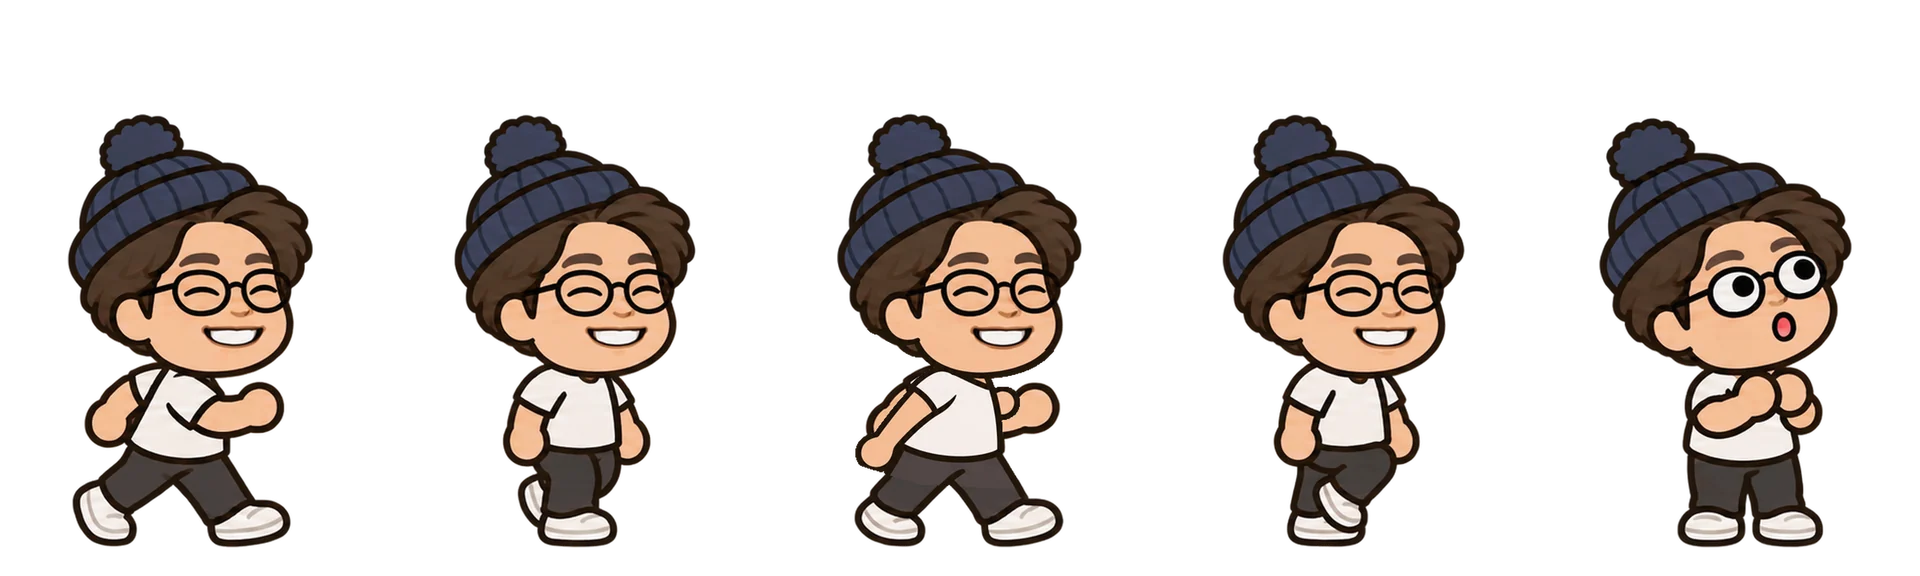
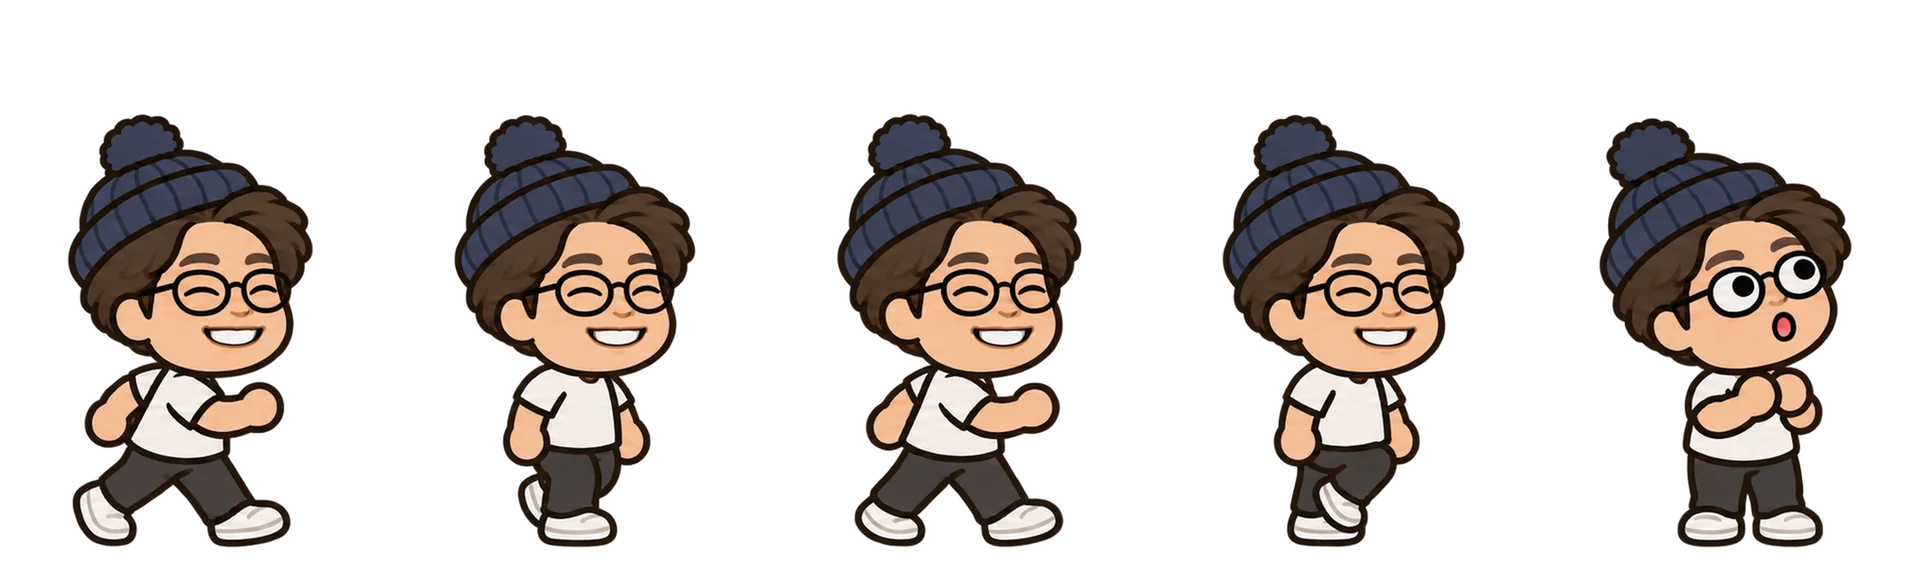
광장 주인장 mandeuk: v4 팔이 이상해서 v2로 되돌림 (판 고정 opts v)
Claude-Session: https://claude.ai/code/session_013gkWdjqDwwMfs8SrUNHEXQ

Changed region(s): [[0.4375, 0.625, 0.5312, 0.8438]]

diff --git a/tools/make_plaza_guests.py b/tools/make_plaza_guests.py
@@ -24,7 +24,7 @@ GUESTS = {
     'wolf-sheep-disguise': (490, (0, 0, 0, 0, 0)),  # 양 탈을 쓴 늑대 (주인이 ChatGPT로 직접 그림, 2026-11-16)
     # 주인장 넷 (assets/briefs/PLAZA_OWNER_WALK_ART.md, 2026-11-17) — 키는 생일 춤 시트 키를 코알라와 견줘 잡음.
     # HUMAN: 칸마다 키를 맞추면 큰 머리가 커졌다 작아졌다 흔들려서, 한 배율(①~⑤ 키 가운데값)로 줄이고 가로는 머리 가운데로 맞춤
-    'mandeuk': (577, (0, 0, 0, 0, 0), HUMAN),
+    'mandeuk': (577, (0, 0, 0, 0, 0), {**HUMAN, 'v': 2}),  # v4는 팔이 이상해서 v2로(주인, 2026-11-18)
     'family-01': (591, (0, 0, 0, 0, 0), HUMAN),
     'family-02': (595, (0, 0, 0, 0, 0), HUMAN),
     'family-03': (546, (0, 0, 0, 0, 0), HUMAN),
@@ -75,6 +75,8 @@ def convert(name, target, lifts, opts=None):
     # 가장 높은 판(-vN)을 씀 (주인장 v2: 팔 엇갈림·머리 고정으로 다시 받음, 2026-11-17)
     base, kind = opts.get('id', name), opts.get('kind', 'walk')
     srcs = sorted((ROOT / 'assets/plaza/guests').glob(f'{base}-{kind}-source-v*.png'), key=lambda f: int(f.stem.rsplit('-v', 1)[1]))
+    if opts.get('v'):  # 판을 정해 둔 손님 (없으면 가장 높은 판)
+        srcs = [f for f in srcs if f.stem.endswith(f"-v{opts['v']}")]
     src = Image.open(srcs[-1]).convert('RGBA')
     print(name, '←', srcs[-1].name)
     parts = [clean(src.crop((round(i * src.width / 5), 0,
